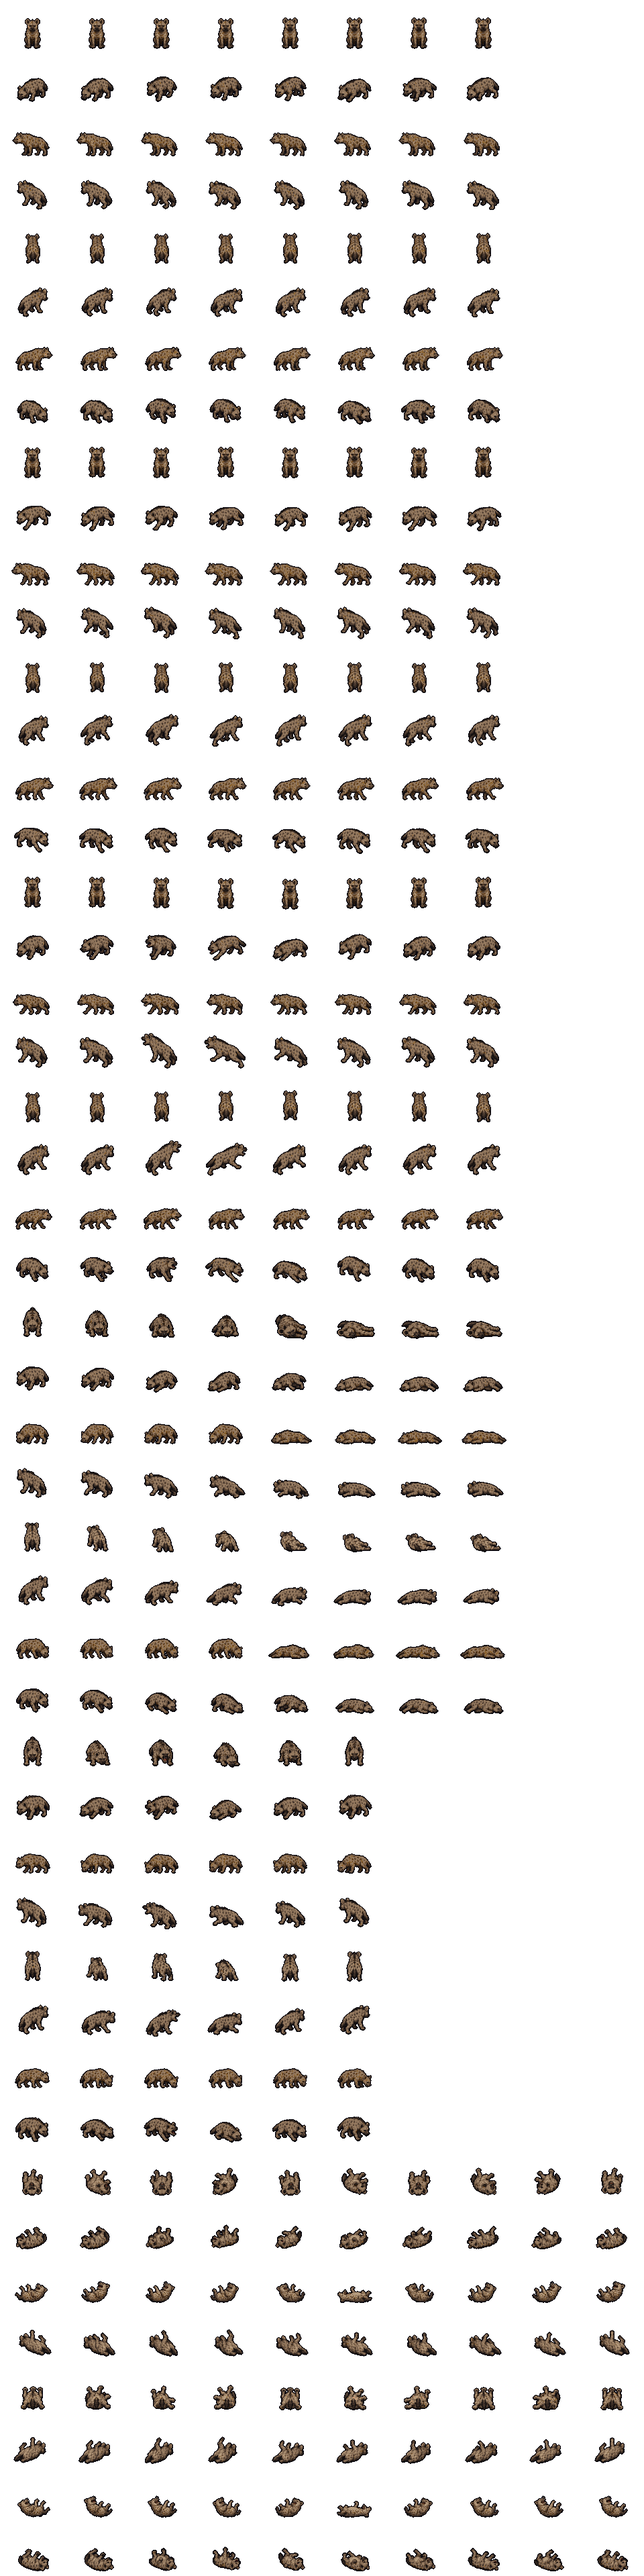
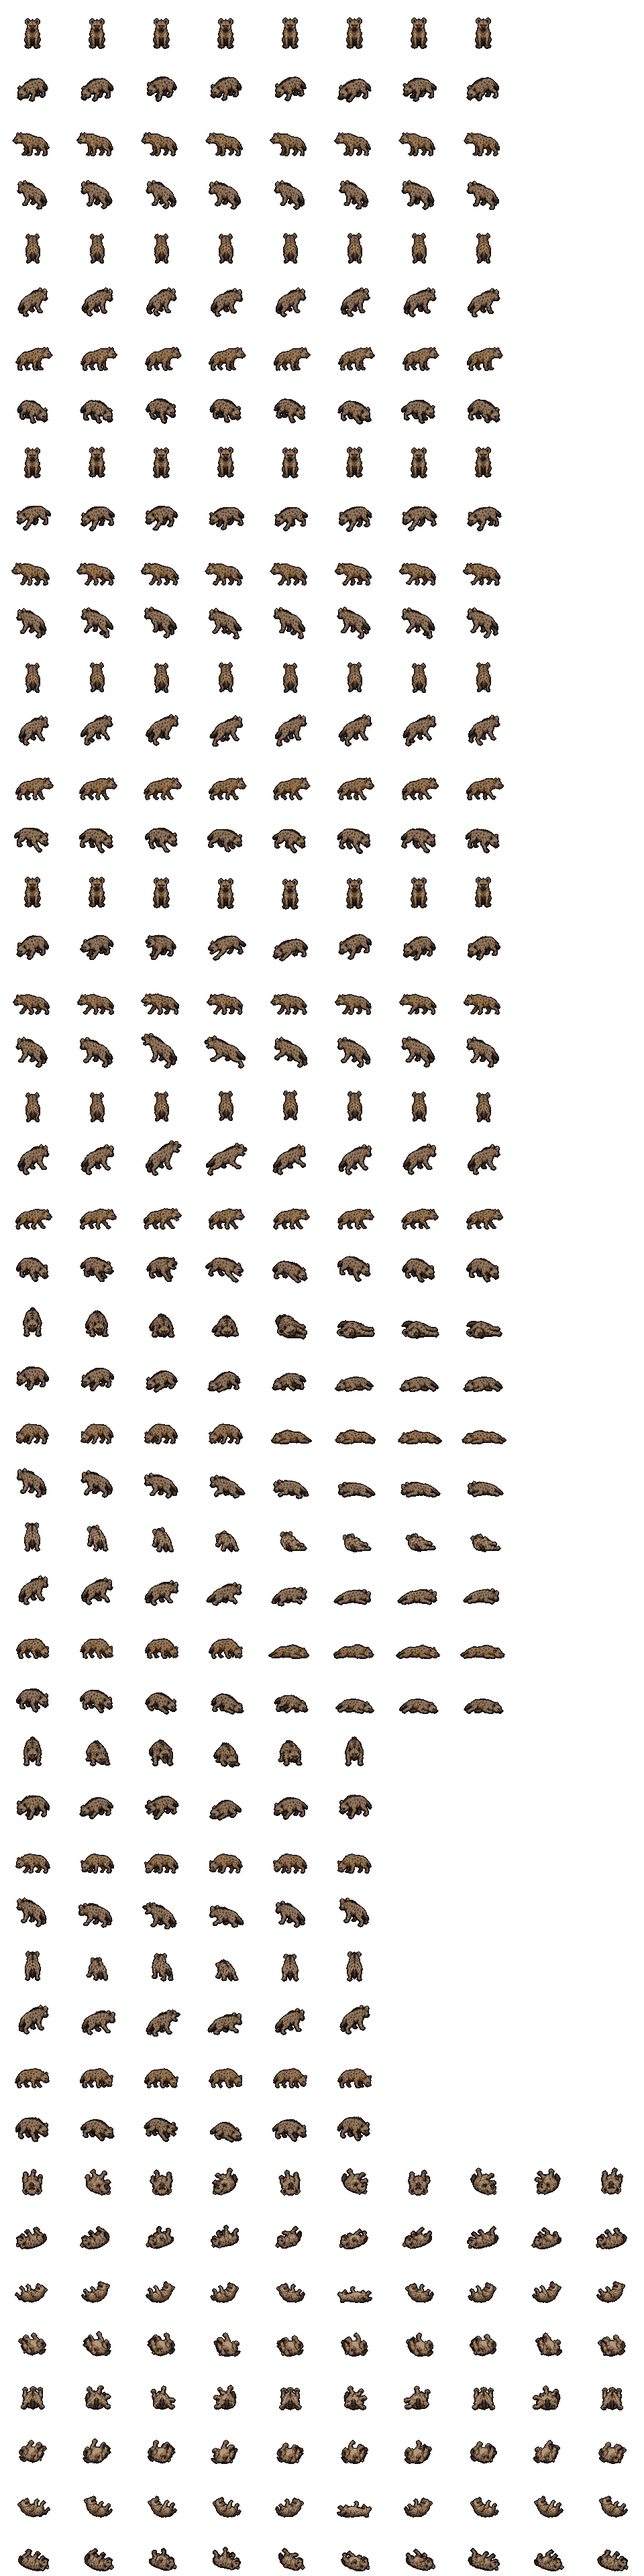
DEEP16 art: the hyena's NE roll re-rolled onto its back -- ART-30 supplement 1 into hyena_p2
tools/hyena-sheet.py takes the art desk's ART-30_HEAD-2_PAGE-3 (deep16/_src/hyena/ART-30-ROLL/,
asked on his "1 ask" after "lol - that's a spine injury hyena") as H2P3, after H2P2 in HEADS['NE'],
so its ROFL replaces the shallow side-lying roll: NE as drawn, NW mirrored, ten frames straight.
Scale by the ROFL's area against the other views' rolls at game size (SE 28.2, S 29.3, N 28.0):
4.57. Tone to the side rows in HSV (27.0 / 0.590 / 0.537 to 32.6 / 0.486 / 0.443). Against HEAD
only the NE and NW rofl rows changed. Both show benches play every row twice; quick gate GREEN.

diff --git a/deep16/index.html b/deep16/index.html
@@ -77,7 +77,7 @@
 <script src="js/art.js?v=e1ce4cf012"></script>
 <script src="data/cavern.js?v=647c1a184a"></script>
 <script src="data/maps.js?v=971b4fe9e6"></script>
-<script src="data/sprites.js?v=e823f8d223"></script>
+<script src="data/sprites.js?v=eccf7742b0"></script>
 <script src="js/sprites.js?v=82883d13a8"></script>
 <script src="js/save.js?v=65142ffd7b"></script>
 <script src="data/spells.js?v=84aed2ba83"></script>

diff --git a/deep16/data/sprites.js b/deep16/data/sprites.js
@@ -4594,7 +4594,7 @@
 }
 },
 "hyena_p2": {
-"image": "art/hyena_p2.png?v=15752fb82e",
+"image": "art/hyena_p2.png?v=72f97f5a95",
 "fw": 96,
 "fh": 80,
 "ax": 48,

diff --git a/tools/hyena-sheet.py b/tools/hyena-sheet.py
@@ -38,6 +38,7 @@ _src/art-desk/received-2026-10-15-ART-30/), each cut by its own row and number l
     H2P2  ART-30_HEAD-2_PAGE-2.png  NE: the rows of H1P2
     H3P1  ART-30_HEAD-3_PAGE-1.png  S:  Hurt 6, Death 8, ROFL 10
     H5P1  ART-30_HEAD-5_PAGE-1.png  N:  Hurt 6, Death 8, ROFL 10
+    H2P3  ART-30_HEAD-2_PAGE-3.png  NE: ROFL 10, re-rolled onto its back (supplement 1, 10-15, _src/hyena/ART-30-ROLL/): it replaces H2P2's
 Their Bite plays as `attack`, Hurt as `flinch`, Death as `hurt`, ROFL as `rofl` -- its ten frames straight (frame 10 leads into
 1), where E and W play their six there and back. S and N keep the stills' idle, walk and bite, bobbed. Every facing now draws
 every row from its own view: S, SE, E, NE, N as drawn, SW, W, NW mirrored. Each page is scaled to the view beside it as
@@ -125,9 +126,14 @@ PAGES = {
                  rows=[('hurt', (200, 30, 2137, 248), (223, 247), NUM(6)),
                        ('death', (200, 260, 2137, 476), (448, 475), NUM(8)),
                        ('rofl', (185, 490, 2137, 682), (656, 681), NUM(10))]),
+    # ART-30 supplement 1 (10-15, his "1 ask" on the old NE roll, "lol - that's a spine injury hyena"): the NE ROFL re-rolled onto its
+    # back, one page in _src/hyena/ART-30-ROLL/ (its ART-30-ROLL-CUTTER-NOTES.md); it comes after H2P2 in HEADS, so its rofl replaces H2P2's
+    'H2P3': dict(file='ART-30_HEAD-2_PAGE-3.png', dir=os.path.join(SRC, 'hyena', 'ART-30-ROLL'),                # NE: ROFL 10
+                 text=[(0, 325, 165, 390), (165, 452, 2169, 486)],
+                 rows=[('rofl', (165, 260, 2169, 484), (455, 483), NUM(10))]),
 }
 ENGINE = {'idle': 'idle', 'walk': 'walk', 'bite': 'attack', 'hurt': 'flinch', 'death': 'hurt', 'rofl': 'rofl'}   # the page's row -> the sheet's
-HEADS = {'SE': ('H1P1', 'H1P2'), 'NE': ('H2P1', 'H2P2'), 'S': ('H3P1',), 'N': ('H5P1',)}
+HEADS = {'SE': ('H1P1', 'H1P2'), 'NE': ('H2P1', 'H2P2', 'H2P3'), 'S': ('H3P1',), 'N': ('H5P1',)}   # (a view's rows in page order: a later page's row replaces)
 FLOOR = ('hurt', 'death')                    # rows that start standing: the row's ground is its first frame's feet (a cringe or a body lying
                                              # nearer the eye reaches lower on the page); the others stand on the row's lowest point
 # the scale, page px a game px. No turnaround on the pages: each page's standing hyena to the view beside it as committed, by the square
@@ -140,13 +146,17 @@ FLOOR = ('hurt', 'death')                    # rows that start standing: the row
 # idle: HEAD 1's drawn 8% bigger (area 131.8 to 121.6, height 140 to 129.5), HEAD 2's 2% (122.1 to 120.5, 165 to 158.8).
 K30 = {'H1P1': 3.86, 'H2P1': 3.83, 'H3P1': 3.98, 'H5P1': 3.90}
 K30.update({'H1P2': K30['H1P1'] * 1.08, 'H2P2': K30['H2P1'] * 1.02})
+# H2P3, the re-rolled NE roll, has no standing frame: by its ROFL's area against the other views' ROFLs at game size (SE 28.2, S 29.3,
+# N 28.0 -- the old NE's 28.7), its 130.2 to their 28.5: 4.57, drawn a seventh bigger than its page 1
+K30['H2P3'] = 4.57
 # the colour, page by page, to the side rows' (his look's): the art desk drew a warmer, stronger, brighter hyena, the more so on the later
 # pages. The medians of the coloured pixels (saturation over 0.2), hue / saturation / value: the side's idle, walk and bite 32.6 / 0.486 /
 # 0.443; H1P1 30.0 / 0.537 / 0.502, H1P2 29.1 / 0.590 / 0.529, H2P1 28.5 / 0.563 / 0.518, H2P2 26.3 / 0.657 / 0.596, H3P1 26.4 / 0.677 /
 # 0.596, H5P1 25.7 / 0.661 / 0.565. Each page: the hue turned, the saturation and the value times a factor, to meet the side's
 # (a per-channel tone moves the spots and the outline unevenly -- GreyFang's seat, 10-14: match saturation instead)
 TONE30 = {'H1P1': (2.6, 0.907, 0.883), 'H1P2': (3.6, 0.825, 0.837), 'H2P1': (4.1, 0.864, 0.856),
-          'H2P2': (6.3, 0.740, 0.743), 'H3P1': (6.2, 0.719, 0.743), 'H5P1': (6.9, 0.736, 0.785)}
+          'H2P2': (6.3, 0.740, 0.743), 'H3P1': (6.2, 0.719, 0.743), 'H5P1': (6.9, 0.736, 0.785),
+          'H2P3': (5.6, 0.824, 0.825)}                                       # (H2P3, the NE roll re-rolled: 27.0 / 0.590 / 0.537)
 
 
 def toned(im, t):
@@ -263,7 +273,7 @@ def heads(check=False):
         for L in pages:
             s = PAGES[L]
             over = [] if check else None
-            cuts = SR.cut_sheet(os.path.join(ART30, s['file']), s, overlay=over, tag=L)
+            cuts = SR.cut_sheet(os.path.join(s.get('dir', ART30), s['file']), s, overlay=over, tag=L)
             if check:
                 d = os.path.join(ROOT, 'dev', 'visions', 'hyena'); os.makedirs(d, exist_ok=True)
                 over[0].save(os.path.join(d, 'cut-%s.png' % L))
